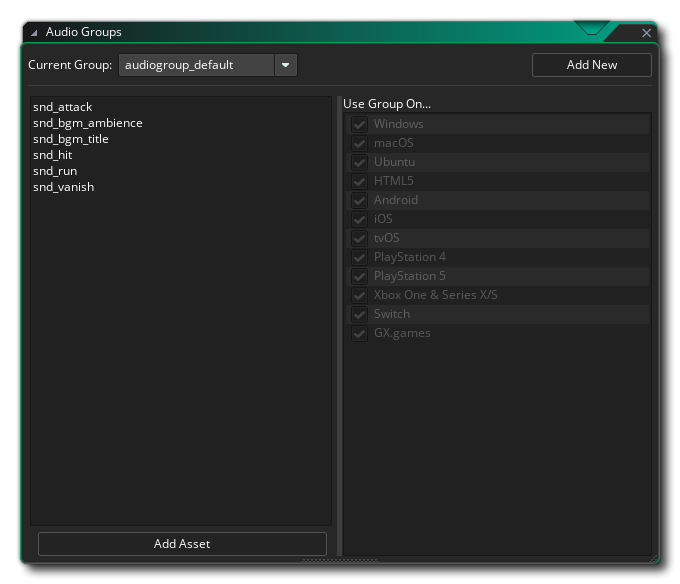
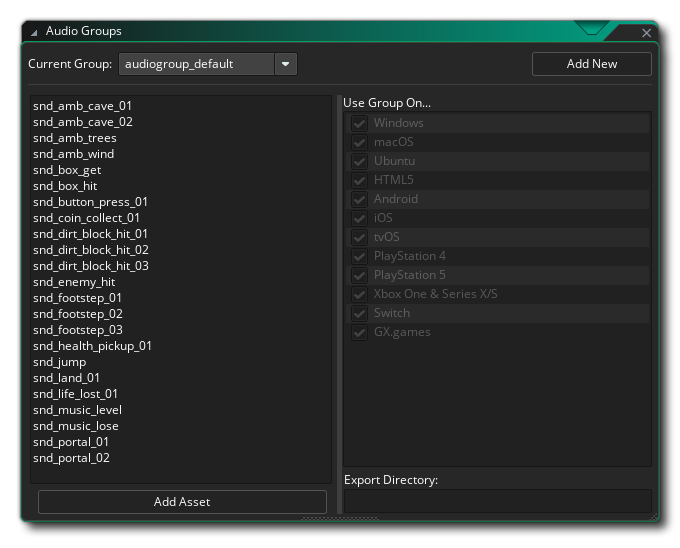
docs(feature): Export Directory option for sound editor and audio group editor https://github.com/YoYoGames/GameMaker-Bugs/issues/2732

diff --git a/Manual/contents/Settings/Audio_Groups.htm b/Manual/contents/Settings/Audio_Groups.htm
@@ -18,21 +18,26 @@
   <p><img alt="Audio Group Editor" class="center" src="../assets/Images/Settings/Audio_Groups.png" />The <strong>Audio Group Manager</strong> is available from the <a href="../IDE_Navigation/Menus/The_Tools_Menu.htm">Tools Menu</a> in the IDE. Here you can <em>add</em>, <em>delete </em>and <em>rename </em><strong>Audio Groups</strong>, as well as set their platform export options. <span data-keyref="GameMaker Name">GameMaker</span> lets you assign each of the audio assets (sound effects and music) to different audio groups to try and optimise the number of sounds being played at any one time, as well as give you further control over what platforms they are exported to.</p>
   <p>Click <img alt="LMB Icon" class="icon" height="24" src="../assets/Images/Icons/Icon_LMB.png" width="21" /> on the <strong>Add New</strong> button to define an audio group. This will create a new group that you can then name. To change group, click <img alt="LMB Icon" class="icon" height="24" src="../assets/Images/Icons/Icon_LMB.png" width="21" /> on the drop-down menu and select the one you wish to edit.</p>
   <p class="note"><span data-conref="../assets/snippets/Tag_note.hts"> </span> If you select streamed audio for a sound in the <a href="../The_Asset_Editors/Sounds.htm">Sound Editor</a>, you will not be able to assign the sound to an Audio Group as streamed sounds are not packaged in the same way as other sounds and you have full control over when they are loaded, played and unloaded using code. The sound will be assigned to the default audio group <span class="inline2"><a data-xref="{title}" href="../GameMaker_Language/GML_Reference/Asset_Management/Audio/Audio_Groups/audiogroup_default.htm">audiogroup_default</a></span>.</p>
+  <h3>Adding Sounds</h3>
   <p>To add a sound to an audio group, you need to open <a data-xref="{title}" href="../The_Asset_Editors/Sounds.htm">The Sound Editor</a> for that sound and then select the group from the option you will find there, or alternatively you can add assets to an audio group via the right mouse button <img alt="RMB Icon" class="icon" height="24" src="../assets/Images/Icons/Icon_RMB.png" width="21" /> menu in <a data-xref="{title}" href="../Introduction/The_Asset_Browser.htm">The Asset Browser</a>. You can select one or more sound assets (or an entire asset group folder) and then use the RMB menu to add the sounds to any group. You can also click the <strong>Add Asset</strong> button at the bottom of the Audio Group Manager to add assets that way.</p>
-  <p>Once you have a sound added to a custom audio group then you can use this window to selectively choose which platform to export that group to. It may be that by default you have all your sounds at the highest quality, but that e.g. for HTML5 you want to use a lower quality sound file set to use less memory. In that case you add the lower quality files to <span data-keyref="GameMaker Name">GameMaker</span> and then assign them to a new audio group. You would then select that audio group from the drop down menu and set it to export <em>only </em>to HTML5, and remove the HTML5 export from the higher quality audio group export options. It is important to note that you cannot change the export options for the &quot;default&quot; audio group <span class="inline2"><a data-xref="{title}" href="../GameMaker_Language/GML_Reference/Asset_Management/Audio/Audio_Groups/audiogroup_default.htm">audiogroup_default</a></span> and that it will always be exported to all available platforms when you build a final game package.</p>
   <p>Once you have defined audio groups and assigned sounds to them you can see them in the list on the left when you select the group. There will always be a &quot;default&quot; audio group available and all the sounds that are within this group will always be included in the game package for all platforms and they will all be loaded into memory on start-up (unless flagged as &quot;streamed&quot; in the Sound Editor properties), but when you create a custom audio group, the files that are added to it <em>will not be loaded into memory</em> until you call the function <span class="inline2"><a data-xref="{title}" href="../GameMaker_Language/GML_Reference/Asset_Management/Audio/Audio_Groups/audio_group_load.htm">audio_group_load</a></span>. In this way you can control what audio is resident in memory at any time.</p>
   <p class="note"><span data-conref="../assets/snippets/Tag_note.hts"> </span> For all the <a href="../GameMaker_Language/GML_Reference/Asset_Management/Audio/Audio_Groups/Audio_Groups.htm">audio group functions</a>, you will need to supply the audio group ID value. This is a constant with the name that you have given the audio group. The default is <span class="inline2"><a data-xref="{title}" href="../GameMaker_Language/GML_Reference/Asset_Management/Audio/Audio_Groups/audiogroup_default.htm">audiogroup_default</a></span>.</p>
-  <p>Audio Groups are also linked to the <a data-xref="{title}" href="Configurations.htm">Configurations</a> settings. When you select a configuration, you can then open the Audio Groups window and select the export targets from the right hand side for that configuration, and then changing configurations will change these output targets. Note that you cannot set sound resources to different groups on a per-configuration basis, only the export target for the given group.</p>
+  <h3>Platform</h3>
+  <p>Once you have a sound added to a custom audio group then you can use this window to selectively choose which platform to export that group to. It may be that by default you have all your sounds at the highest quality, but that e.g. for HTML5 you want to use a lower quality sound file set to use less memory. In that case you add the lower quality files to <span data-keyref="GameMaker Name">GameMaker</span> and then assign them to a new audio group. You would then select that audio group from the drop down menu and set it to export <em>only </em>to HTML5, and remove the HTML5 export from the higher quality audio group export options. It is important to note that you cannot change the export options for the &quot;default&quot; audio group <span class="inline2"><a data-xref="{title}" href="../GameMaker_Language/GML_Reference/Asset_Management/Audio/Audio_Groups/audiogroup_default.htm">audiogroup_default</a></span> and that it will always be exported to all available platforms when you build a final game package.</p>
+  <p>Platform settings for Audio Groups are also linked to the <a data-xref="{title}" href="Configurations.htm">Configurations</a> settings. When you select a configuration, you can then open the Audio Groups window and select the export targets from the right hand side for that configuration, and then changing configurations will change these output targets. Note that you cannot set sound resources to different groups on a per-configuration basis, only the export target for the given group.</p>
+  <h3>Export Directory</h3>
+  <p>You can specify an export directory that is relative to the game bundle directory. The audio group file will be placed inside that directory when the game is exported. If this field is empty, the audio group file will be placed at the root of the game bundle.</p>
+  <p>This field is disabled for the default audio group as that is included in the game&#39;s main package file. On HTML5 this field has no effect as it does not export audio group files individually. To set sound export directories on HTML5, set the directory on each <a href="../The_Asset_Editors/Sounds.htm">sound asset</a> individually.</p>
   <p> </p>
   <p> </p>
   <div class="footer">
     <div class="buttons">
       <div class="clear">
-        <div style="float:left">Back: <a data-xref="{title}" href="Game_Settings.htm">GameMaker Runner</a></div>
+        <div style="float:left">Back: <a data-xref="{title}" href="Game_Settings.htm">GameMaker Runner Settings</a></div>
         <div style="float:right">Next: <a data-xref="{title}" href="Texture_Groups.htm">Texture Groups</a></div>
       </div>
     </div>
-    <h5><span data-keyref="Copyright Notice">© Copyright YoYo Games Ltd. 2024 All Rights Reserved</span></h5>
+    <h5><span data-keyref="Copyright Notice">© Copyright YoYo Games Ltd. 2025 All Rights Reserved</span></h5>
   </div>
   <!-- KEYWORDS
 Audio Groups

diff --git a/Manual/contents/The_Asset_Editors/Sounds.htm b/Manual/contents/The_Asset_Editors/Sounds.htm
@@ -58,6 +58,11 @@
     <p class="dropspot">If you have selected <em>streamed </em>audio then this option will be <strong>disabled</strong>, as streamed sounds are not packaged in the same way as other sounds and will be not be loaded into memory, but instead streamed directly from the storage medium.</p>
     <p class="note"><span data-conref="../assets/snippets/Tag_note.hts"> </span> While the rest of the audio properties are configuration specific, the audio group setting is <em>not </em>and a sound will belong to the same group on <em>all configurations that you use</em>.</p>
   </div>
+  <p><a class="dropspot" data-rhwidget="DropSpot" data-target="drop-down10" href="#">Export Directory</a></p>
+  <div class="droptext" data-targetname="drop-down10">
+    <p class="dropspot">This is the directory within the exported game bundle where the sound is placed if it is streamed. The path entered here is relative to the game bundle directory, so e.g. writing <span class="inline2">sfx/world1</span> will export the sound to <span class="inline2">bundle/sfx/world1/sound.file</span>. If left empty, the streamed sound will be placed at the game bundle&#39;s root.</p>
+    <p class="dropspot">On HTML5, the sound will be placed in this directory regardless of whether it is streamed or not.</p>
+  </div>
   <p> </p>
   <p> </p>
   <p> </p>
